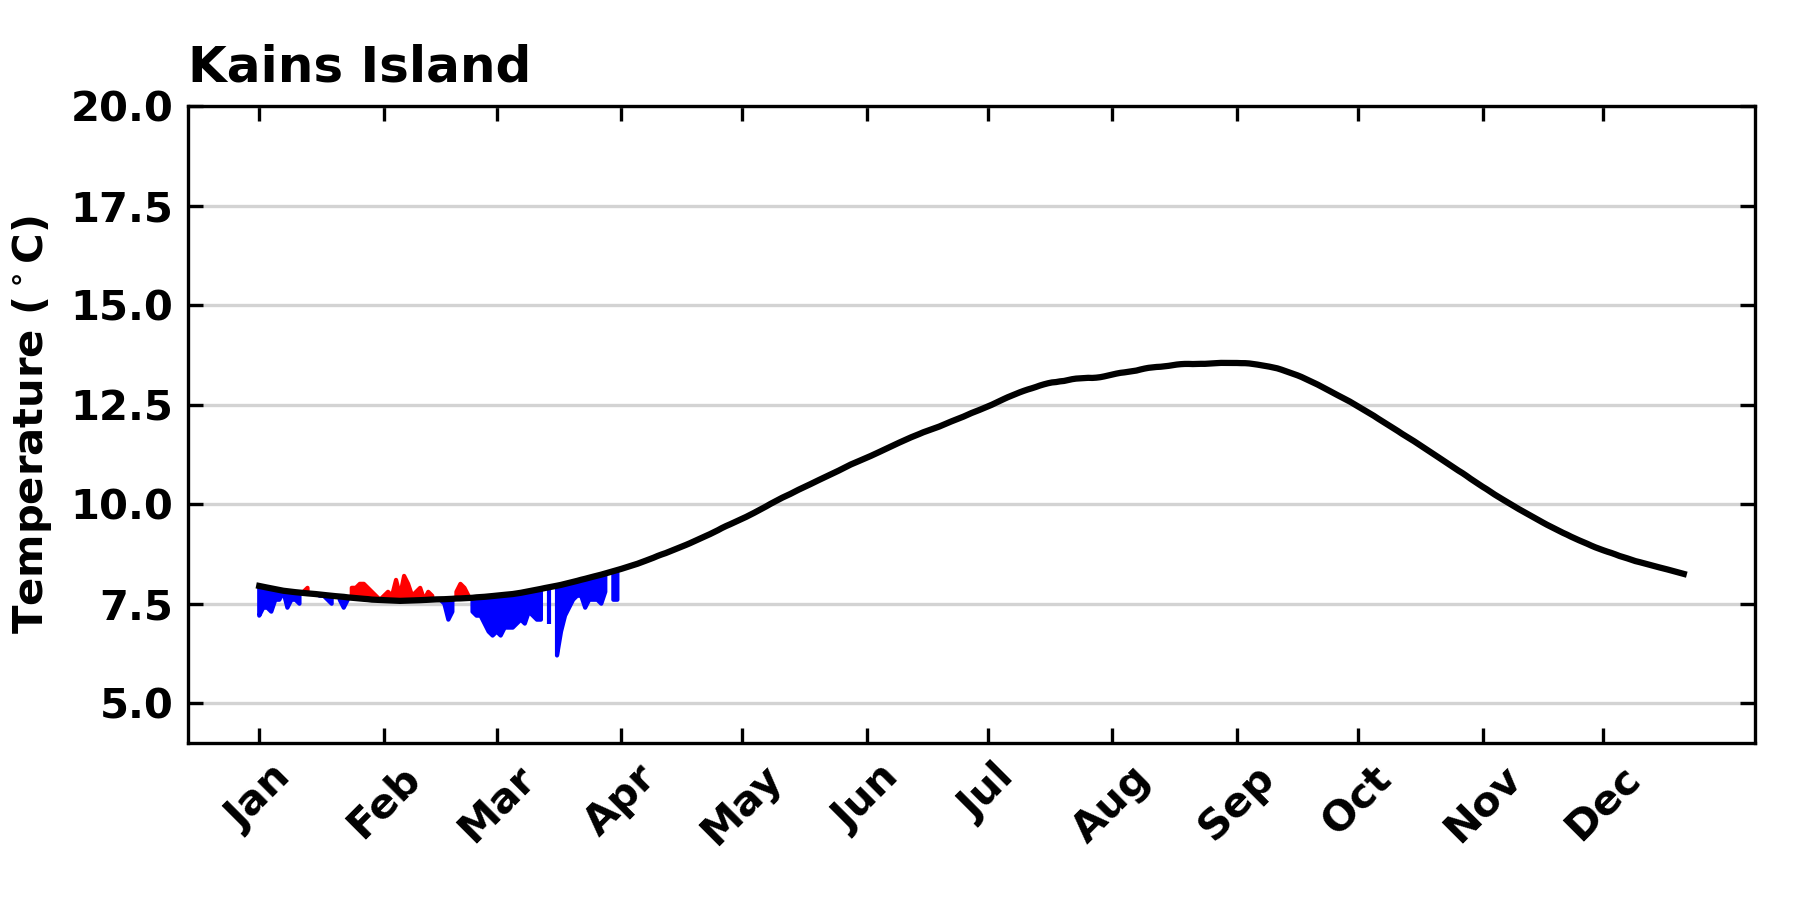
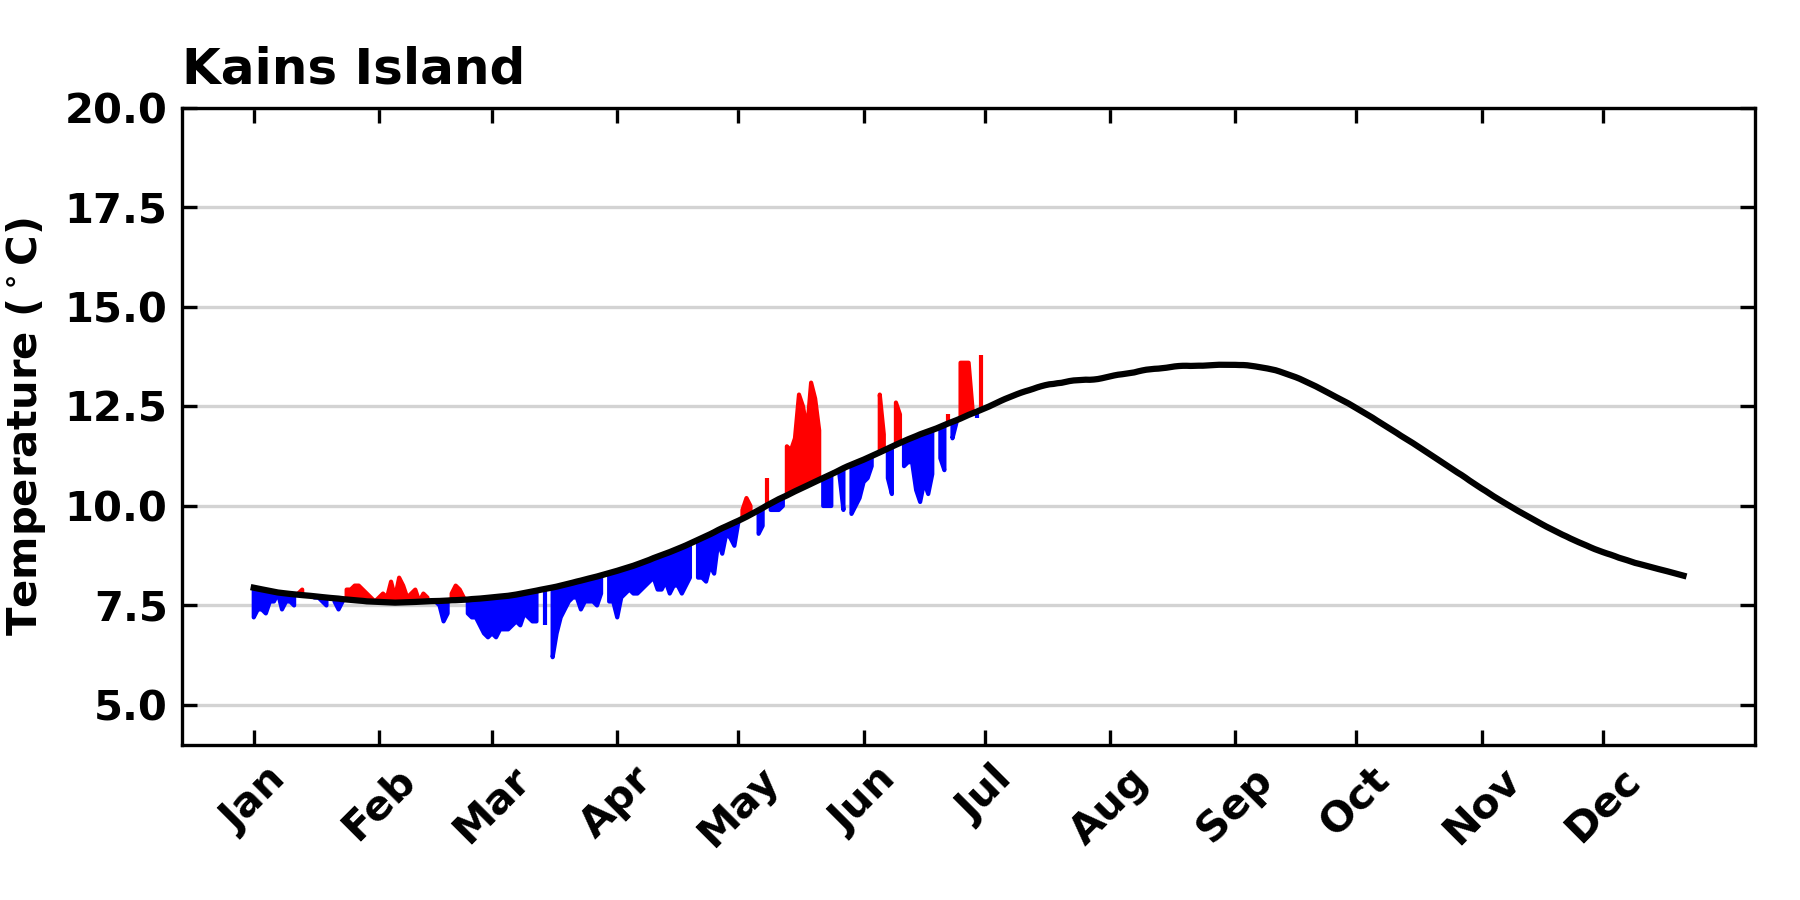
update daily filled anomaly plots

diff --git a/scripts/plot_lightstation_temperature.py b/scripts/plot_lightstation_temperature.py
@@ -13,8 +13,9 @@ from blume.table import table
 
 STATION_NAMES = [
     "Amphitrite Point", "Bonilla Island", "Chrome Island",
-    "Entrance Island", "Kains Island",
-    "Langara Island", "Pine Island", "Race Rocks"
+    "Departure Bay", "Egg Island", "Entrance Island", "Kains Island",
+    "Langara Island", "McInnes Island", "Nootka Point", "Pine Island",
+    "Race Rocks"
 ]
 MONTH_ABBREV = ['Jan', 'Feb', 'Mar', 'Apr', 'May', 'Jun', 'Jul', 'Aug', 'Sep',
                 'Oct', 'Nov', 'Dec']
@@ -210,7 +211,7 @@ def plot_data_gaps():
     return
 
 
-def plot_daily_filled_anomalies(year: int, do_smooth: bool, window=None):
+def plot_daily_filled_anomalies(year: int, suffix: str, do_smooth: bool, window=None):
     """
     Plot the most recent year's raw data on top of the daily average of all time
     for each station
@@ -227,16 +228,16 @@ def plot_daily_filled_anomalies(year: int, do_smooth: bool, window=None):
     new_dir = os.getcwd()
 
     # Use daily data instead of monthly mean observations
-    daily_file_list = glob.glob(new_dir + '\\data\\daily\\*.txt')
+    daily_file_list = glob.glob(new_dir + f'\\data\\daily\\*{suffix}')
     if len(daily_file_list) == 0:
         print('Check suffix of raw files; empty file list returned')
         return
     daily_file_list.sort()
 
-    final_daily_list = []
-    for elem in daily_file_list:
-        if all([nm not in elem for nm in ['Departure', 'Egg', 'McInnes', 'Nootka']]):
-            final_daily_list.append(elem)
+    final_daily_list = daily_file_list
+    # for elem in daily_file_list:
+    #     if all([nm not in elem for nm in ['Departure', 'Egg', 'McInnes', 'Nootka']]):
+    #         final_daily_list.append(elem)
 
     if len(final_daily_list) != len(STATION_NAMES):
         print('List of daily data files does not match length of STATION_NAMES global variable! Exiting')
@@ -262,8 +263,20 @@ def plot_daily_filled_anomalies(year: int, do_smooth: bool, window=None):
 
     for i in range(len(final_daily_list)):
         # Read in fixed width file
-        df_obs = pd.read_fwf(final_daily_list[i], skiprows=3,
-                             na_values=[99.99, 999.9, 999.99])
+        if suffix.endswith('txt'):
+            df_obs = pd.read_fwf(final_daily_list[i], skiprows=3,
+                                 na_values=[99.99, 999.9, 999.99])
+            temperature_colname = 'Temperature(C)'
+        elif suffix.endswith('csv'):
+            df_obs = pd.read_csv(final_daily_list[i], skiprows=1,
+                                 na_values=[99.99, 999.9, 999.99])
+            df_obs['Year'] = [x[:4] for x in df_obs['DATE (YYYY-MM-DD)']]
+            df_obs['Month'] = [x[5:7] for x in df_obs['DATE (YYYY-MM-DD)']]
+            df_obs['Day'] = [x[8:10] for x in df_obs['DATE (YYYY-MM-DD)']]
+            temperature_colname = 'TEMPERATURE ( C )'
+        else:
+            print('Suffix', suffix, 'not supported; exiting !')
+            return
 
         # Convert the year-month-day columns into floats
         df_obs['Datetime'] = pd.to_datetime(df_obs.loc[:, ['Year', 'Month', 'Day']])
@@ -280,16 +293,15 @@ def plot_daily_filled_anomalies(year: int, do_smooth: bool, window=None):
             print(f"No data available from {STATION_NAMES[i]} in year {year}; skipping")
             continue
 
-        # Compute the average of all observations for each day of the year
+        # Compute the average of all observations for each day of the year (not just avg over 1991-2020)
         # Initialize an array to hold the daily climatological values
         daily_clim = pd.Series(data=days_per_year, dtype=float)
 
         # Populate the array with mean values
         for k in range(1, days_per_year + 1):
             daily_clim.loc[k - 1] = df_obs.loc[
-                df_obs['Datetime'].dt.dayofyear == k, 'Temperature(C)'
+                df_obs['Datetime'].dt.dayofyear == k, temperature_colname
             ].mean(skipna=True)
-
         if do_smooth:
             # Use 21-day rolling average as default
             if window is None:
@@ -323,9 +335,9 @@ def plot_daily_filled_anomalies(year: int, do_smooth: bool, window=None):
         ax.fill_between(
             df_obs.loc[mask_year, 'Datetime'].dt.dayofyear,
             clim_to_plot.loc[:last_dayofyear - 1],  # -1 because indexing starts at zero
-            df_obs.loc[mask_year, 'Temperature(C)'],
+            df_obs.loc[mask_year, temperature_colname],
             where=(
-                    df_obs.loc[mask_year, 'Temperature(C)'].to_numpy() >
+                    df_obs.loc[mask_year, temperature_colname].to_numpy() >
                     clim_to_plot.loc[:last_dayofyear - 1].to_numpy()
             ),
             color='r'
@@ -333,9 +345,9 @@ def plot_daily_filled_anomalies(year: int, do_smooth: bool, window=None):
         ax.fill_between(
             df_obs.loc[mask_year, 'Datetime'].dt.dayofyear,
             clim_to_plot.loc[:last_dayofyear - 1],
-            df_obs.loc[mask_year, 'Temperature(C)'],
+            df_obs.loc[mask_year, temperature_colname],
             where=(
-                    df_obs.loc[mask_year, 'Temperature(C)'].to_numpy() <
+                    df_obs.loc[mask_year, temperature_colname].to_numpy() <
                     clim_to_plot.loc[:last_dayofyear - 1].to_numpy()
             ),
             color='b'
@@ -741,7 +753,7 @@ def make_density_subplot(ax: plt.Axes, df: pd.DataFrame, var: str,
 
     # Suppress legend since it's in the time series plot
     # Have to reverse dataframe order to plot newest data in front
-    color_end = 3-len(year_ranges_density_plot) if 3 >= len(year_ranges_density_plot) else None
+    color_end = 3 - len(year_ranges_density_plot) if 3 >= len(year_ranges_density_plot) else None
     sns.kdeplot(df_density_plot.loc[::-1, :], x=var, hue='Year Range', fill=True,
                 legend=False, ax=ax, palette=sns.color_palette()[3:color_end:-1])
     # Add a light grey grid behind the curves
@@ -801,7 +813,7 @@ def make_density_subplot(ax: plt.Axes, df: pd.DataFrame, var: str,
                 #     for k in range(len(year_ranges))
                 # ],
                 cellColours=[
-                    [sns.color_palette('pastel')[4-len(year_ranges):4][k]] * ncols
+                    [sns.color_palette('pastel')[4 - len(year_ranges):4][k]] * ncols
                     for k in range(len(year_ranges))
                 ],
                 colColours=[sns.color_palette('pastel')[-3]] * ncols,  # grey for column headers
@@ -1134,7 +1146,8 @@ def run_plot(
         plot_climatology(clim_file=clim_file, output_dir=output_folder)
 
     if daily_anom:
-        plot_daily_filled_anomalies(2023, do_smooth=True, window=daily_anom_window)
+        plot_daily_filled_anomalies(2023, do_smooth=True, window=daily_anom_window,
+                                    suffix='.csv')
 
     if daily_stats:
         plot_daily_T_statistics()
